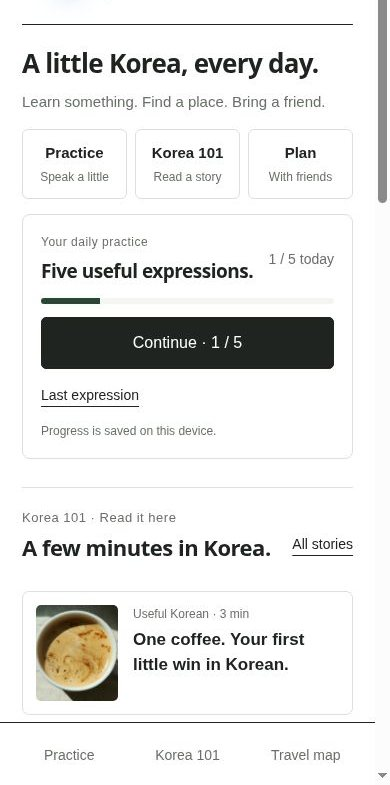
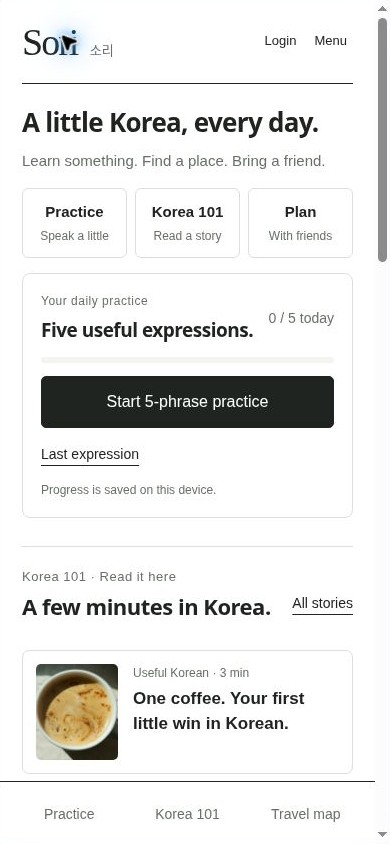
Restore day map after airport selection and separate lesson translation from pronunciation

diff --git a/css/sori-learning.css b/css/sori-learning.css
@@ -1,2 +1,2 @@
-.practice-dashboard{margin:8px 0 28px;padding:22px;border:1px solid var(--line);border-radius:8px;background:#fff}.practice-summary{display:flex;gap:15px;align-items:center;justify-content:space-between}.practice-summary .eyebrow{margin-bottom:8px;font-size:13px}.practice-summary h2{font:600 21px/1.35 system-ui;letter-spacing:-.5px;margin:0}.practice-total{white-space:nowrap;font-size:14px;color:var(--muted)}progress{width:100%;height:6px;border:0;border-radius:5px;overflow:hidden;accent-color:var(--sori);display:block;margin:18px 0;background:var(--wash)}progress::-webkit-progress-bar{background:var(--wash)}progress::-webkit-progress-value{background:var(--sori)}.practice-dashboard-actions{display:flex;gap:10px;flex-wrap:wrap}.practice-dashboard-actions>.sori-primary{width:100%;font-size:16px;border-radius:5px}.practice-dashboard-actions .sori-secondary,.practice-dashboard-actions .text-button{font-size:14px}.practice-dashboard .small-note{font-size:13px;margin-bottom:0}.learn-practice-entry{display:flex;gap:12px;align-items:center;flex-wrap:wrap;margin:18px 0}.learn-practice-entry button{font-size:14px}.practice-session-active>:not(#practiceSession):not(.learning-trip-bridge){display:none!important}#practiceSession{max-width:580px;margin:auto;padding:14px 0 35px}.session-header{display:flex;justify-content:space-between;align-items:center;gap:20px;font-size:15px}.session-header .text-button{font-size:14px}.session-prompt{padding-top:18px}.session-prompt h1{font:500 26px/1.3 system-ui;letter-spacing:-.6px;margin:14px 0}.recall-prompt{font:normal 29px/1.5 var(--serif);margin:22px 0}.session-prompt .small-note{font-size:14px}.session-answer{border-top:1px solid var(--line);padding-top:20px;margin-top:22px}.session-answer h2{font:600 30px/1.7 'Noto Sans KR',sans-serif;word-break:keep-all;letter-spacing:-1px;margin:5px 0 10px;text-align:left}.session-romanization{font-size:15px;color:var(--muted);line-height:1.7}.session-context{font-size:15px;color:var(--muted);line-height:1.7}.session-answer .practice-instruction{font-size:15px;margin:24px 0 12px}.session-answer .audio-choices button{font-size:16px}.recall-actions{display:grid;grid-template-columns:1fr 1fr;gap:10px}.recall-actions button{min-height:54px;border-radius:5px;font-size:15px}.session-answer .small-note{font-size:13px}.practice-finish{padding:30px 0}.practice-finish h1{font:600 36px/1.15 system-ui;letter-spacing:-1px}.practice-finish p{font-size:16px;line-height:1.8;color:var(--muted)}.practice-finish button{display:flex;width:100%;margin:10px 0}.practice-finish .small-note{font-size:14px}.learn-display-controls{display:flex;flex-wrap:wrap;gap:12px 20px;padding:8px 0 18px;font-size:14px}.learn-display-controls label{display:flex;gap:8px;align-items:center;font-size:14px;min-height:44px}.learn-display-controls input{accent-color:var(--sori);width:17px;height:17px}.romanization-off #pronunciation,.translation-off #english{display:none!important}.repeat-practice{display:flex;gap:15px;align-items:center;margin:14px 0}.repeat-practice button{font-size:14px;flex:1;min-height:48px;border-radius:5px}.search-results:empty{display:none}.search-results{padding:12px 0}.search-results>p{font-size:14px;color:var(--muted);margin:0 0 8px}.search-results button{display:block;text-align:left;width:100%;color:var(--ink);background:white;border:0;border-bottom:1px solid var(--line);padding:13px 0;font-size:16px;line-height:1.7}.search-results button span{display:block;font-size:14px;color:var(--muted)}.today-practice .audio-status,.place-language .audio-status,.session-answer .audio-status{font-size:14px;line-height:1.6;color:var(--sori)}@media(min-width:900px){.practice-dashboard{display:block;max-width:none;margin-bottom:35px}.practice-dashboard-actions>.sori-primary{width:auto}.practice-home{padding-bottom:28px}.practice-summary h2{font-size:26px}}
+.practice-dashboard{margin:8px 0 28px;padding:22px;border:1px solid var(--line);border-radius:8px;background:#fff}.practice-summary{display:flex;gap:15px;align-items:center;justify-content:space-between}.practice-summary .eyebrow{margin-bottom:8px;font-size:13px}.practice-summary h2{font:600 21px/1.35 system-ui;letter-spacing:-.5px;margin:0}.practice-total{white-space:nowrap;font-size:14px;color:var(--muted)}progress{width:100%;height:6px;border:0;border-radius:5px;overflow:hidden;accent-color:var(--sori);display:block;margin:18px 0;background:var(--wash)}progress::-webkit-progress-bar{background:var(--wash)}progress::-webkit-progress-value{background:var(--sori)}.practice-dashboard-actions{display:flex;gap:10px;flex-wrap:wrap}.practice-dashboard-actions>.sori-primary{width:100%;font-size:16px;border-radius:5px}.practice-dashboard-actions .sori-secondary,.practice-dashboard-actions .text-button{font-size:14px}.practice-dashboard .small-note{font-size:13px;margin-bottom:0}.learn-practice-entry{display:flex;gap:12px;align-items:center;flex-wrap:wrap;margin:18px 0}.learn-practice-entry button{font-size:14px}.practice-session-active>:not(#practiceSession):not(.learning-trip-bridge){display:none!important}#practiceSession{max-width:580px;margin:auto;padding:14px 0 35px}.session-header{display:flex;justify-content:space-between;align-items:center;gap:20px;font-size:15px}.session-header .text-button{font-size:14px}.session-prompt{padding-top:18px}.session-prompt h1{font:500 26px/1.3 system-ui;letter-spacing:-.6px;margin:14px 0}.recall-prompt{font:normal 29px/1.5 var(--serif);margin:22px 0}.session-prompt .small-note{font-size:14px}.session-answer{border-top:1px solid var(--line);padding-top:20px;margin-top:22px}.session-answer h2{font:600 30px/1.7 'Noto Sans KR',sans-serif;word-break:keep-all;letter-spacing:-1px;margin:5px 0 10px;text-align:left}.session-romanization{font-size:15px;color:var(--muted);line-height:1.7}.session-context{font-size:15px;color:var(--muted);line-height:1.7}.session-answer .practice-instruction{font-size:15px;margin:24px 0 12px}.session-answer .audio-choices button{font-size:16px}.recall-actions{display:grid;grid-template-columns:1fr 1fr;gap:10px}.recall-actions button{min-height:54px;border-radius:5px;font-size:15px}.session-answer .small-note{font-size:13px}.practice-finish{padding:30px 0}.practice-finish h1{font:600 36px/1.15 system-ui;letter-spacing:-1px}.practice-finish p{font-size:16px;line-height:1.8;color:var(--muted)}.practice-finish button{display:flex;width:100%;margin:10px 0}.practice-finish .small-note{font-size:14px}.learn-display-controls{display:flex;flex-wrap:wrap;gap:12px 20px;padding:8px 0 18px;font-size:14px}.learn-display-controls label{display:flex;gap:8px;align-items:center;font-size:14px;min-height:44px}.learn-display-controls input{accent-color:var(--sori);width:17px;height:17px}#mainContent.romanization-off #pronunciation,#mainContent.translation-off #english{display:none!important}.repeat-practice{display:flex;gap:15px;align-items:center;margin:14px 0}.repeat-practice button{font-size:14px;flex:1;min-height:48px;border-radius:5px}.search-results:empty{display:none}.search-results{padding:12px 0}.search-results>p{font-size:14px;color:var(--muted);margin:0 0 8px}.search-results button{display:block;text-align:left;width:100%;color:var(--ink);background:white;border:0;border-bottom:1px solid var(--line);padding:13px 0;font-size:16px;line-height:1.7}.search-results button span{display:block;font-size:14px;color:var(--muted)}.today-practice .audio-status,.place-language .audio-status,.session-answer .audio-status{font-size:14px;line-height:1.6;color:var(--sori)}@media(min-width:900px){.practice-dashboard{display:block;max-width:none;margin-bottom:35px}.practice-dashboard-actions>.sori-primary{width:auto}.practice-home{padding-bottom:28px}.practice-summary h2{font-size:26px}}
 .practice-dashboard .practice-summary h2{font-size:19px}.practice-dashboard .practice-dashboard-actions .text-button{min-height:34px;padding:4px 0}.practice-dashboard progress{margin:13px 0}.practice-dashboard{padding:17px}.practice-dashboard .small-note{margin-top:9px;font-size:12px;line-height:1.5}.practice-dashboard .eyebrow{font-size:12px}

diff --git a/js/guide/ui.js b/js/guide/ui.js
@@ -1,6 +1,6 @@
-import {generatePlan,AREAS,PHRASES,mapLink,naverLink,phraseForPlace,CITIES,cityForArea} from './planner.js?v=20261119r5';
-import {AIRPORTS,CITY_CENTRES,isKoreaPoint,kmBetween,googleLeg,basePoint,routePoints,nearbyOrder,transferHint} from './geo.js?v=20261119r5';
-import {createJourneyMap} from './map.js?v=20261119r5';
+import {generatePlan,AREAS,PHRASES,mapLink,naverLink,phraseForPlace,CITIES,cityForArea} from './planner.js?v=20261119r6';
+import {AIRPORTS,CITY_CENTRES,isKoreaPoint,kmBetween,googleLeg,basePoint,routePoints,nearbyOrder,transferHint} from './geo.js?v=20261119r6';
+import {createJourneyMap} from './map.js?v=20261119r6';
 const root=document.getElementById('guideView');
 const esc=s=>String(s??'').replace(/[&<>"']/g,c=>({'&':'&amp;','<':'&lt;','>':'&gt;','"':'&quot;',"'":'&#39;'}[c]));
 const storage={get(k){try{return JSON.parse(localStorage.getItem(k));}catch{return null;}},set(k,v){try{localStorage.setItem(k,JSON.stringify(v));return true;}catch{return false;}}};
@@ -37,7 +37,9 @@ function validateStep(){const f=root.querySelector('#tripForm'),d=new FormData(f
 function selectedPlace(){return catalog.find(p=>p.id===selectedStop);}
 function updateTripMap(fit=true){if(!current||!map)return;const day=current.plan.days[activeDay],points=routePoints(day,catalog,journeyDraft,devicePoint),base=basePoint(journeyDraft,devicePoint);const visible=day.stops.map((id,i)=>({...catalog.find(p=>p.id===id),number:i+1}));if(base&&!journeyDraft.hotel||base&&journeyDraft.origin!=='hotel')visible.unshift({...base,id:'start',kind:'base',label:base.label||'This device'});map.update({points:visible,route:points,hotel:journeyDraft.hotel,airports:Object.values(AIRPORTS).filter(a=>a.city===cityNow()),selected:selectedStop,fit});}
 function selectStop(id){
+ const wasAirport=Boolean(AIRPORTS[selectedStop]);
  selectedStop=id;map?.select(id);root.querySelectorAll('[data-select-stop]').forEach(b=>b.setAttribute('aria-pressed',String(b.dataset.selectStop===id)));
+ if(wasAirport&&!AIRPORTS[id])updateTripMap(true);
  if(AIRPORTS[id]&&journeyDraft.hotel){const day=current.plan.days[activeDay];map.update({points:day.stops.map((pid,i)=>({...catalog.find(p=>p.id===pid),number:i+1})),route:[AIRPORTS[id],journeyDraft.hotel],hotel:journeyDraft.hotel,fit:true});map.select(id);}
  renderSelected();
 }
@@ -70,7 +72,7 @@ root.addEventListener('click',e=>{const b=e.target.closest('button');if(!b)retur
  if(b.dataset.selectStop){selectStop(b.dataset.selectStop);return;}
  if(b.dataset.travelMode){travelMode=b.dataset.travelMode;renderSelected();return;}
  if(b.dataset.phrase!==undefined){window.SoriLearn?.openKorean(PHRASES[Number(b.dataset.phrase)].ko);window.SoriNav?.show('listen');window.scrollTo({top:0,behavior:'instant'});return;}
- if(b.hasAttribute('data-map-fit')){map?.fit();return;}if(b.hasAttribute('data-map-airports')){if(current&&AIRPORTS[journeyDraft.arrival])selectStop(journeyDraft.arrival);map?.fit(true);return;}
+ if(b.hasAttribute('data-map-fit')){if(current){selectStop(current.plan.days[activeDay].stops[0]||(journeyDraft.hotel?'hotel':null));updateTripMap(true);}else map?.fit();return;}if(b.hasAttribute('data-map-airports')){if(current&&AIRPORTS[journeyDraft.arrival])selectStop(journeyDraft.arrival);map?.fit(true);return;}
  if(b.hasAttribute('data-map-size')){root.classList.toggle('expanded-map');b.textContent=root.classList.contains('expanded-map')?'Smaller map':'Expand map';map?.refresh();return;}
  if(b.hasAttribute('data-open-stay')){root.querySelector('[data-edit-stay]').open=true;root.querySelector('[data-edit-stay]').scrollIntoView({block:'center',behavior:'instant'});return;}
  if(b.hasAttribute('data-pick-hotel')){picking=true;map?.pick(true);message('Tap your accommodation’s position on the map. Use + to zoom in first.');root.querySelector('.journey-map').scrollIntoView({block:'center',behavior:'instant'});return;}
@@ -98,6 +100,6 @@ window.addEventListener('sori-view',e=>{if(e.detail.view==='guide')map?.refresh(
 async function restore(){const params=new URLSearchParams(location.hash.slice(1));if(params.has('trip')){window.SoriNav?.show('guide');await resume(params.get('trip'));return;}if(params.has('invite')){joinInvite=params.get('invite');if(!/^[A-Za-z0-9_-]{43}$/.test(joinInvite))throw Error('This invitation is not valid.');window.SoriNav?.show('guide');const preview=await api('invitation','POST',{invite:joinInvite},null);const existing=storage.get('sori:trip:'+preview.tripId);if(existing){try{await resume(preview.tripId);return;}catch{}}
  destroyMap();root.querySelector('#tripContent').innerHTML='<div class="join-panel"><span class="eyebrow">You’re invited</span><h1>Make this day together.</h1><p>Join to see the group’s hotel and places, edit the itinerary and leave notes.</p><form id="joinForm"><label>Your name<input name="name" maxlength="40" required autocomplete="nickname"></label><button class="sori-primary">Join trip</button></form><p class="small-note">Guest access stays in this browser. No email is sent.</p></div>';}}
 shell();
-try{const response=await fetch('data/places.json?v=20261119r5');if(!response.ok)throw Error('Could not load the Korea collection.');catalog=await response.json();setupMap();await restore();}catch(e){message(e.message);}
+try{const response=await fetch('data/places.json?v=20261119r6');if(!response.ok)throw Error('Could not load the Korea collection.');catalog=await response.json();setupMap();await restore();}catch(e){message(e.message);}
 window.addEventListener('hashchange',()=>safe(restore));
 setInterval(async()=>{if(!current||busy||picking||document.hidden||root.style.display==='none'||root.querySelector('[data-edit-stay][open]')||document.activeElement?.closest('input,textarea,select'))return;try{const next=await api('trips/'+current.id);if(next.version!==current.version){current=next;renderTrip();message('A friend updated the trip.');}}catch(e){message(e.message);}},7000);

diff --git a/js/stories/ui.js b/js/stories/ui.js
@@ -25,7 +25,7 @@ document.addEventListener('click',async e=>{const b=e.target.closest('button');i
  }catch(error){const status=root.querySelector('#storyStatus')||root.querySelector('#subscribeStatus');if(status)status.textContent=error.message;}finally{busy=false;}});
 root.addEventListener('submit',async e=>{if(e.target.id!=='nativeSubscribe')return;e.preventDefault();if(busy)return;busy=true;const f=e.target,b=f.querySelector('button');b.disabled=true;try{const data=new FormData(f),result=await call('newsletter/signup','POST',{email:data.get('email'),consent:data.get('consent')==='on'});if(result.cancelToken){token=result.cancelToken;local.set('sori:subscription-cancel',token);}root.querySelector('#subscribeStatus').textContent=result.message;if(token&&!root.querySelector('[data-cancel-subscription]')){const cancel=document.createElement('button');cancel.type='button';cancel.className='text-button';cancel.dataset.cancelSubscription='';cancel.textContent='Remove me from this list';root.querySelector('#subscribeStatus').after(cancel);}}catch(error){root.querySelector('#subscribeStatus').textContent=error.message;}finally{busy=false;b.disabled=false;}});
 async function subscriptionLink(){const p=new URLSearchParams(location.hash.slice(1)),value=p.get('subscribe')||p.get('unsubscribe');if(!value)return;window.SoriNav?.show('newsletter');try{const result=await call(p.has('subscribe')?'newsletter/confirm':'newsletter/unsubscribe','POST',{token:value});root.querySelector('#subscribeStatus').textContent=result.status==='confirmed'?'Your Korea 101 subscription is confirmed.':'You are unsubscribed.';}catch(error){root.querySelector('#subscribeStatus').textContent=error.message;}}
-try{const response=await fetch('data/stories.json?v=20261119r5');stories=(await response.json()).filter(s=>s.status==='published');actor=local.get('sori:story-actor');if(!/^[A-Za-z0-9_-]{43}$/.test(actor||'')){actor=random();local.set('sori:story-actor',actor);}preview();feed();call('newsletter/status').then(data=>{mailEnabled=data.emailEnabled;if(mailEnabled){const button=root.querySelector('#nativeSubscribe>button');if(button)button.textContent='Subscribe for free';const note=root.querySelector('#nativeSubscribe .small-note');if(note)note.textContent='Confirm the email we send before delivery begins.';}}).catch(()=>{});const id=new URLSearchParams(location.hash.slice(1)).get('story');if(id)await article(id);await subscriptionLink();}catch{root.innerHTML='<p>We could not load Korea 101. Please refresh to try again.</p>';}
+try{const response=await fetch('data/stories.json?v=20261119r6');stories=(await response.json()).filter(s=>s.status==='published');actor=local.get('sori:story-actor');if(!/^[A-Za-z0-9_-]{43}$/.test(actor||'')){actor=random();local.set('sori:story-actor',actor);}preview();feed();call('newsletter/status').then(data=>{mailEnabled=data.emailEnabled;if(mailEnabled){const button=root.querySelector('#nativeSubscribe>button');if(button)button.textContent='Subscribe for free';const note=root.querySelector('#nativeSubscribe .small-note');if(note)note.textContent='Confirm the email we send before delivery begins.';}}).catch(()=>{});const id=new URLSearchParams(location.hash.slice(1)).get('story');if(id)await article(id);await subscriptionLink();}catch{root.innerHTML='<p>We could not load Korea 101. Please refresh to try again.</p>';}
 window.addEventListener('hashchange',()=>{const id=new URLSearchParams(location.hash.slice(1)).get('story');if(id&&openStory?.id!==id)article(id);});
 
 export {};

diff --git a/index.html b/index.html
@@ -55,7 +55,7 @@
 <!-- PWA Manifest -->
 <link rel="manifest" href="/manifest.webmanifest">
 
-<script src="js/config.js?v=20261119r5"></script>
+<script src="js/config.js?v=20261119r6"></script>
 <script>window.GA_ID='G-X1Q98DBKR5';</script>
 <script async src="https://www.googletagmanager.com/gtag/js?id=G-X1Q98DBKR5"></script>
 <script>
@@ -328,10 +328,10 @@ input[type="range"]::-moz-range-thumb{width:18px;height:18px;border-radius:50%;b
 
 </style>
 
-<link rel="stylesheet" href="css/sidebar.css?v=20261119r5">
-<link rel="stylesheet" href="css/quiz.css?v=20261119r5">
-<link rel="stylesheet" href="css/announcement.css?v=20261119r5">
-<link rel="stylesheet" href="css/sori-v1.css?v=20261119r5"><link rel="stylesheet" href="assets/vendor/leaflet/leaflet.css?v=1.9.4"><link rel="stylesheet" href="css/sori-map.css?v=20261119r5"><link rel="stylesheet" href="css/sori-learning.css?v=20261119r5"><link rel="stylesheet" href="css/sori-stories.css?v=20261119r5">
+<link rel="stylesheet" href="css/sidebar.css?v=20261119r6">
+<link rel="stylesheet" href="css/quiz.css?v=20261119r6">
+<link rel="stylesheet" href="css/announcement.css?v=20261119r6">
+<link rel="stylesheet" href="css/sori-v1.css?v=20261119r6"><link rel="stylesheet" href="assets/vendor/leaflet/leaflet.css?v=1.9.4"><link rel="stylesheet" href="css/sori-map.css?v=20261119r6"><link rel="stylesheet" href="css/sori-learning.css?v=20261119r6"><link rel="stylesheet" href="css/sori-stories.css?v=20261119r6">
 </head>
 <body>
 <header class="header">
@@ -564,16 +564,16 @@ input[type="range"]::-moz-range-thumb{width:18px;height:18px;border-radius:50%;b
 <script defer src="data/dataindex.js?v=20251019"></script>
 <script defer src="data/nouns.js?v=20251019"></script>
 <script defer src="data/speech-level.js?v=20251028"></script>
-<script defer src="data/data-processor.js?v=20251019"></script>
+<script defer src="data/data-processor.js?v=20261119r6"></script>
 
 <!-- app scripts -->
-<script type="module" src="/js/firebase-init.js?v=20261119r5" defer></script>
-<script type="module" src="/js/auth.js?v=20261119r5" defer></script>
-<script defer src="js/tts.js?v=20261119r5"></script>
-<script defer src="js/app.js?v=20261119r5"></script><script defer src="js/practice.js?v=20261119r5"></script>
-<script defer src="js/sidebar.js?v=20261119r5"></script>
-<script defer src="assets/vendor/leaflet/leaflet.js?v=1.9.4"></script><script type="module" src="js/guide/ui.js?v=20261119r5"></script><script type="module" src="js/learning/ui.js?v=20261119r5"></script><script type="module" src="js/stories/ui.js?v=20261119r5"></script>
-<script defer src="js/quiz.js?v=20261119r5"></script>
+<script type="module" src="/js/firebase-init.js?v=20261119r6" defer></script>
+<script type="module" src="/js/auth.js?v=20261119r6" defer></script>
+<script defer src="js/tts.js?v=20261119r6"></script>
+<script defer src="js/app.js?v=20261119r6"></script><script defer src="js/practice.js?v=20261119r6"></script>
+<script defer src="js/sidebar.js?v=20261119r6"></script>
+<script defer src="assets/vendor/leaflet/leaflet.js?v=1.9.4"></script><script type="module" src="js/guide/ui.js?v=20261119r6"></script><script type="module" src="js/learning/ui.js?v=20261119r6"></script><script type="module" src="js/stories/ui.js?v=20261119r6"></script>
+<script defer src="js/quiz.js?v=20261119r6"></script>
 
 
 <script>

diff --git a/data/data-processor.js b/data/data-processor.js
@@ -66,14 +66,14 @@
 
     const ko = (koEl.textContent || '').trim();
     const hit = map?.get(ko) || {};
-    const meaning = hit.e || (ctx.textContent || '').replace(/(^"+|"+$)/g, '').trim();
-    const roman = hit.p || (pr.textContent || '').trim() || (en.textContent || '').trim();
+    const meaning = hit.e || (en.textContent || '').replace(/(^"+|"+$)/g, '').trim();
+    const roman = hit.p || (pr.textContent || '').trim();
 
     applying = true;
     try {
-      if (meaning) ctx.textContent = quote(meaning);
-      if (roman) en.textContent = roman;
-      pr.style.display = 'none';
+      en.textContent = meaning ? quote(meaning) : '';
+      pr.textContent = roman;
+      pr.style.removeProperty('display');
       
       // 명사 정의 업데이트
       updateNounDefinitions(ko);

diff --git a/js/state.js b/js/state.js
@@ -1,8 +1,8 @@
-import {app, auth} from './firebase-init.js?v=20261119r5';
+import {app, auth} from './firebase-init.js?v=20261119r6';
 import {onAuthStateChanged} from 'https://www.gstatic.com/firebasejs/10.12.3/firebase-auth.js';
 import {getFirestore, doc, getDoc, setDoc, arrayUnion, arrayRemove, serverTimestamp} from 'https://www.gstatic.com/firebasejs/10.12.3/firebase-firestore.js';
-import {SavedStore} from './saved-store.js?v=20261119r5';
-import {createSupabaseAdapter} from './supabase-adapter.js?v=20261119r5';
+import {SavedStore} from './saved-store.js?v=20261119r6';
+import {createSupabaseAdapter} from './supabase-adapter.js?v=20261119r6';
 
 const db = getFirestore(app);
 const firestoreAdapter = {

diff --git a/js/learning/ui.js b/js/learning/ui.js
@@ -1,4 +1,4 @@
-import {PracticeProgress} from './progress.js?v=20261119r5';
+import {PracticeProgress} from './progress.js?v=20261119r6';
 const esc=s=>String(s??'').replace(/[&<>"']/g,c=>({'&':'&amp;','<':'&lt;','>':'&gt;','"':'&quot;',"'":'&#39;'}[c]));
 let rows=[],byId=new Map(),progress=null,phase='prompt',sessionView=false,currentScope=null;
 function feedback(){return progress.error?'<p class="small-note" role="status">This browser could not save your progress. Your current practice still works.</p>':'';}

diff --git a/js/auth.js b/js/auth.js
@@ -1,5 +1,5 @@
-import {auth, provider, authReady} from './firebase-init.js?v=20261119r5';
-import './state.js?v=20261119r5';
+import {auth, provider, authReady} from './firebase-init.js?v=20261119r6';
+import './state.js?v=20261119r6';
 import {signInWithPopup, signInWithRedirect, getRedirectResult, signOut, onAuthStateChanged} from 'https://www.gstatic.com/firebasejs/10.12.3/firebase-auth.js';
 // The inline modal gate owns buttons. This module owns the authentication API only.
 let pending = null;

diff --git a/docs/production-release.md b/docs/production-release.md
@@ -46,4 +46,6 @@ Offline: 39 tests cover existing account isolation, TTS cancellation/cache, city
 
 The map now connects public hotel search/manual pins, arrival airports, numbered day stops, selected-place details and Google Maps origin/destination transport links. Learning adds resumable five-expression recall, spaced review, global search and optional repeated audio. Korea 101 is read and shared inside Sori, with static social preview pages, local bookmarks, durable reactions, an email waitlist and an optional double-opt-in confirmation adapter. No campaign sender or verified sending account is active. See map-learning-v3.md and korea101-publishing.md for boundaries and the recurring publisher contract.
 
-47 offline tests passed, including the built Worker import and health check, rather than syntax alone. The first attempted server version failed at initialization because a build-time read expression was accidentally included in the runtime entry; version 4 fixes it and the packaged-runtime regression check prevents recurrence. Native deployment of version 4 succeeded. Mobile browser checks exercised a real public-hotel search, hotel-based itinerary creation, pin selection, correct Google Maps route origins, airport-to-hotel context, practice audio and 2/5 resume after reload, native article reading/save/reaction, and explicit waitlist signup/cancellation. At 360/390/430/768/1100 frame widths, the trip had no horizontal overflow after the responsive grid fix. These are browser-frame checks, not real phone hardware certification.
+48 offline tests passed, including the built Worker import and health check, rather than syntax alone. The first attempted server version failed at initialization because a build-time read expression was accidentally included in the runtime entry; version 4 fixes it and the packaged-runtime regression check prevents recurrence. Native deployment of version 4 succeeded. Mobile browser checks exercised a real public-hotel search, hotel-based itinerary creation, pin selection, correct Google Maps route origins, airport-to-hotel context, practice audio and 2/5 resume after reload, native article reading/save/reaction, and explicit waitlist signup/cancellation. At 360/390/430/768/1100 frame widths, the trip had no horizontal overflow after the responsive grid fix. These are browser-frame checks, not real phone hardware certification.
+
+Follow-up browser QA restored the day route and fit bounds after selecting an airport, and fixed a legacy lesson enhancer that duplicated romanization and displaced the English translation. Both display toggles now hide their intended line. The published-site screenshots in this directory show the actual public frontend, not a design mockup. The recurring Korea 101 web publisher is enabled for Monday/Wednesday/Friday at 09:00 Asia/Seoul, starting November 20; email delivery remains inactive.

diff --git a/docs/korea101-publishing.md b/docs/korea101-publishing.md
@@ -27,3 +27,7 @@ The optional confirmation adapter needs a verified sending identity in SORI_MAIL
 ## Current launch checks
 
 Story reader, local save, public sharing shape, durable anonymous reaction totals, waitlist consent and cancellation, and mocked double opt-in are covered by the release verification. Account-specific learning progress is stored locally and is not a cloud learning-history sync. Native Google login and real phone hardware remain separate checks.
+
+## Active publication schedule
+
+The owner-linked publication task is enabled for Monday, Wednesday and Friday at 09:00 Asia/Seoul, starting 2026-11-20. It updates this frontend repository through the connected GitHub writer. A successful scheduled task must report a verified public story URL; creation of the schedule alone is not evidence that a later run published. This schedule publishes web stories, not email campaigns.
